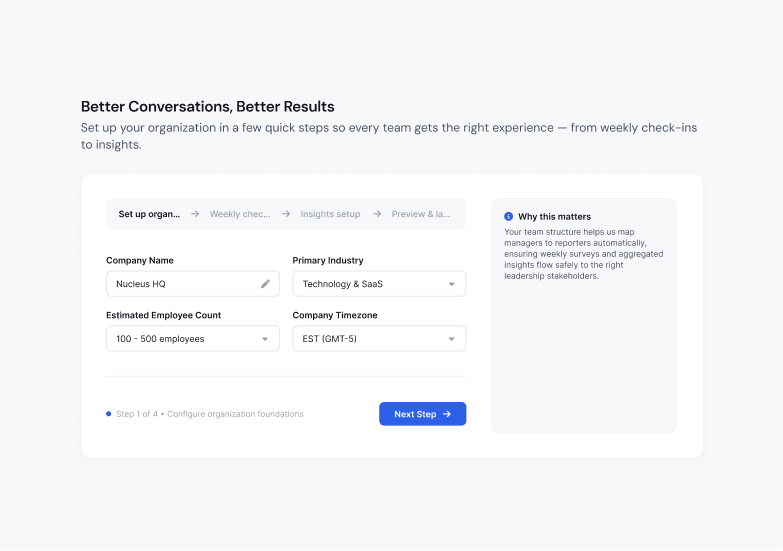
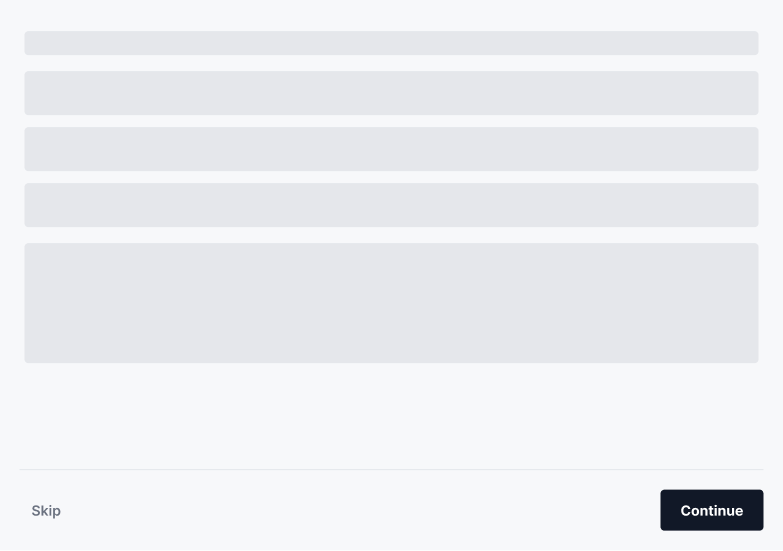
added all

diff --git a/src/projects/projectData.js b/src/projects/projectData.js
@@ -172,7 +172,7 @@ export const PROJECTS = [
           [
             { src: "/images/criteria/onboarding-direction-1.png", borderRadius: 12, caption: "Direction 1: An accordion-style checklist that expands each step in place, surfacing a “Why this matters” explanation inline before admins move on." },
             { src: "/images/criteria/onboarding-direction-2.png", borderRadius: 12, caption: "Direction 2: A single-step wizard with a persistent side panel dedicated to explaining the trust and data implications of the step in view." },
-            { src: "/images/criteria/onboarding-direction-3.png", borderRadius: 12, caption: "Direction 3: A horizontal-stepper variation of the same wizard pattern, testing how the step progress and education panel read together." },
+            { src: "/images/criteria/onboarding-direction-3.png", borderRadius: 12, caption: "Direction 3: An early low-fidelity skeleton pass, focused purely on step structure and pacing — content and education framing came later, once the layout itself felt right." },
           ],
         ],
       },
